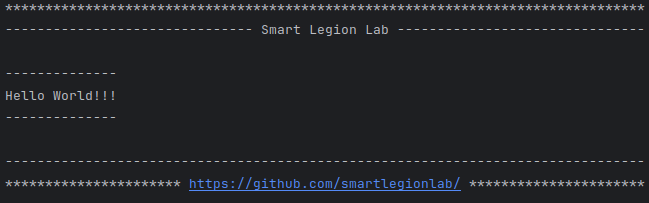
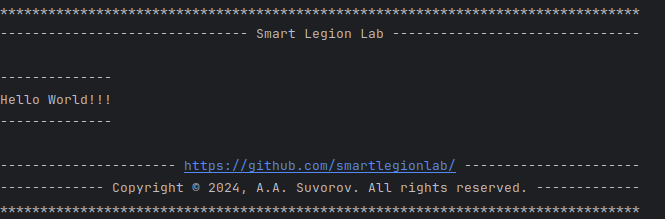
smarttextdecorator v0.1.2

diff --git a/smarttextdecorator/decorators.py b/smarttextdecorator/decorators.py
@@ -1,0 +1,55 @@
+# --------------------------------------------------------
+# Licensed under the terms of the BSD 3-Clause License
+# (see LICENSE for details).
+# Copyright © 2024, A.A. Suvorov
+# All rights reserved.
+# --------------------------------------------------------
+# https://github.com/smartlegionlab/
+# --------------------------------------------------------
+import shutil
+
+
+class CenteredTextDecorator:
+
+    @classmethod
+    def decorate(cls, text='', symbol=''):
+        columns = cls._get_term_width()
+        symbol = ' ' if not symbol else symbol
+        msg = (f' {text} ' if text else '').center(columns, symbol[0])
+        return msg
+
+    @classmethod
+    def _get_term_width(cls):
+        return shutil.get_terminal_size()[0]
+
+
+class FramedTextDecorator:
+
+    @classmethod
+    def decorate(cls, text='', top_symbol='-', bottom_symbol='-'):
+        text_len = len(text)
+        top_text = top_symbol * text_len
+        bottom_text = bottom_symbol * text_len
+        return f'{top_text}\n{text}\n{bottom_text}'
+
+
+class SmartPrinter:
+
+    @classmethod
+    def print_center(cls, text='', symbol='-'):
+        print(CenteredTextDecorator.decorate(text, symbol))
+
+    @classmethod
+    def print_framed(cls, text='', symbol='-'):
+        print(FramedTextDecorator.decorate(text, symbol))
+
+    @classmethod
+    def show_head(cls, text='', top_symbol='*', main_symbol='-'):
+        print(CenteredTextDecorator.decorate(symbol=top_symbol))
+        print(CenteredTextDecorator.decorate(text=text, symbol=main_symbol))
+
+    @classmethod
+    def show_footer(cls, url='', copyright_='', top_symbol='-', main_symbol='*'):
+        print(CenteredTextDecorator.decorate(text=url, symbol=top_symbol))
+        print(CenteredTextDecorator.decorate(text=copyright_, symbol=top_symbol))
+        print(CenteredTextDecorator.decorate(symbol=main_symbol))

diff --git a/smarttextdecorator/__init__.py b/smarttextdecorator/__init__.py
@@ -4,7 +4,7 @@
 # Copyright © 2024, A.A. Suvorov
 # All rights reserved.
 # --------------------------------------------------------
-# https://github.com/smartlegionlab
+# https://github.com/smartlegionlab/
 # --------------------------------------------------------
 """
 A library for decorating strings and displaying them beautifully in the console.
@@ -16,5 +16,6 @@ Generates and displays a line with the specified text, decorated at the top and 
 Use for beautiful design of console applications.
 
 """
-__version__ = '0.1.1'
+from .decorators import SmartPrinter, FramedTextDecorator, CenteredTextDecorator
+__version__ = '0.1.2'
 __author__ = 'A.A. Suvorov'

diff --git a/setup.py b/setup.py
@@ -9,5 +9,5 @@
 from setuptools import setup, find_packages
 
 setup(
-      packages=find_packages(exclude=['requirements', 'data']),
+      packages=find_packages(exclude=['data', ]),
 )

diff --git a/README.md b/README.md
@@ -1,4 +1,4 @@
-# Smart Text Decorator
+# Smart Text Decorator <sup>v0.1.2</sup>
 Smart text decorator.
 A library for decorating strings and displaying them beautifully in the console.
 
@@ -26,30 +26,41 @@ Author and developer: ___A.A. Suvorov___
 
 ***
 
+## What's new:
+
+__smarttextdecorator__ v0.7.3
+
+> WARNING! Not backward compatible with older versions.
+
+- Fix errors. 
+- Code refactoring.
+
+***
+
 ## Help:
 
 - `pip install smarttextdecorator`
 
 ```python
-from smarttextdecorator.tools import SmartPrinter
-smart_printer = SmartPrinter()
-SmartPrinter.print_framed(char='-')
-smart_printer.print_center(text='Smart Legion Lab')
+from smarttextdecorator import SmartPrinter
+
+SmartPrinter.print_framed(symbol='-')
+SmartPrinter.print_center(text='Smart Legion Lab')
+
 ```
 
 ### Exemple:
 
 ```python
-from smarttextdecorator.tools import SmartPrinter
+from smarttextdecorator import SmartPrinter
 
 
 def main():
-    smart_printer = SmartPrinter()
-    smart_printer.show_head(text='Smart Legion Lab')
+    SmartPrinter.show_head(text='Smart Legion Lab')
     print()
-    smart_printer.print_framed(text='Hello World!!!')
+    SmartPrinter.print_framed(text='Hello World!!!')
     print()
-    smart_printer.show_footer(text='https://github.com/smartlegionlab/')
+    SmartPrinter.show_footer(url='https://github.com/smartlegionlab/', copyright_='Copyright © 2024, A.A. Suvorov. All rights reserved.')
 
 
 if __name__ == '__main__':
@@ -57,7 +68,7 @@ if __name__ == '__main__':
 
 ```
 
-<img alt="image" src="data/images/smarttextdecorator.png">
+![logo](https://github.com/smartlegionlab/smarttextdecorator/raw/master/data/images/smarttextdecorator.png)
 
 ***
 
